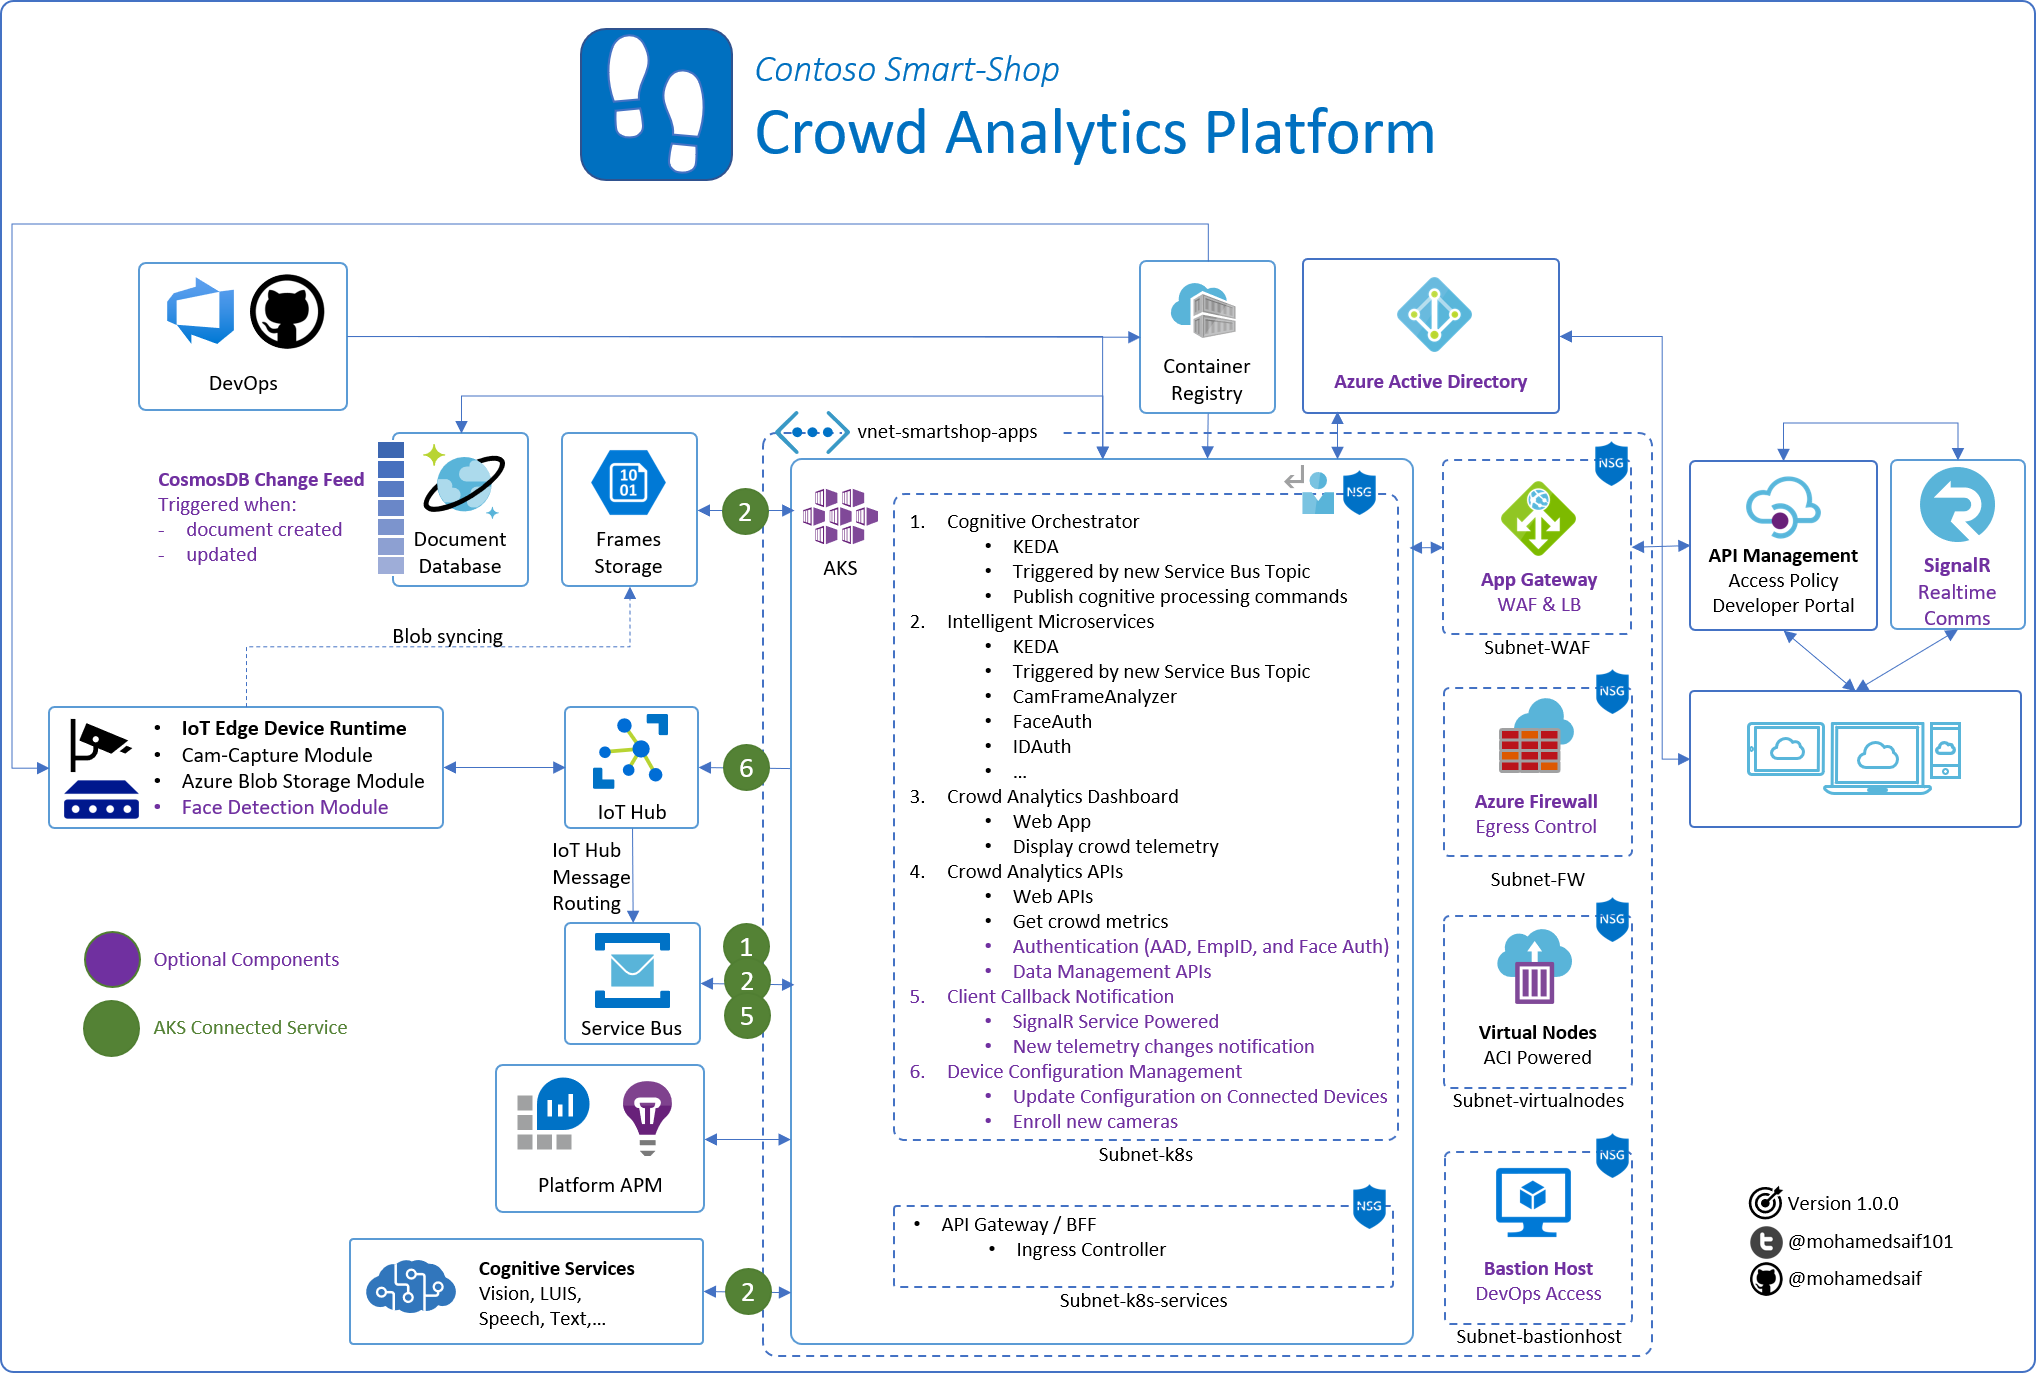
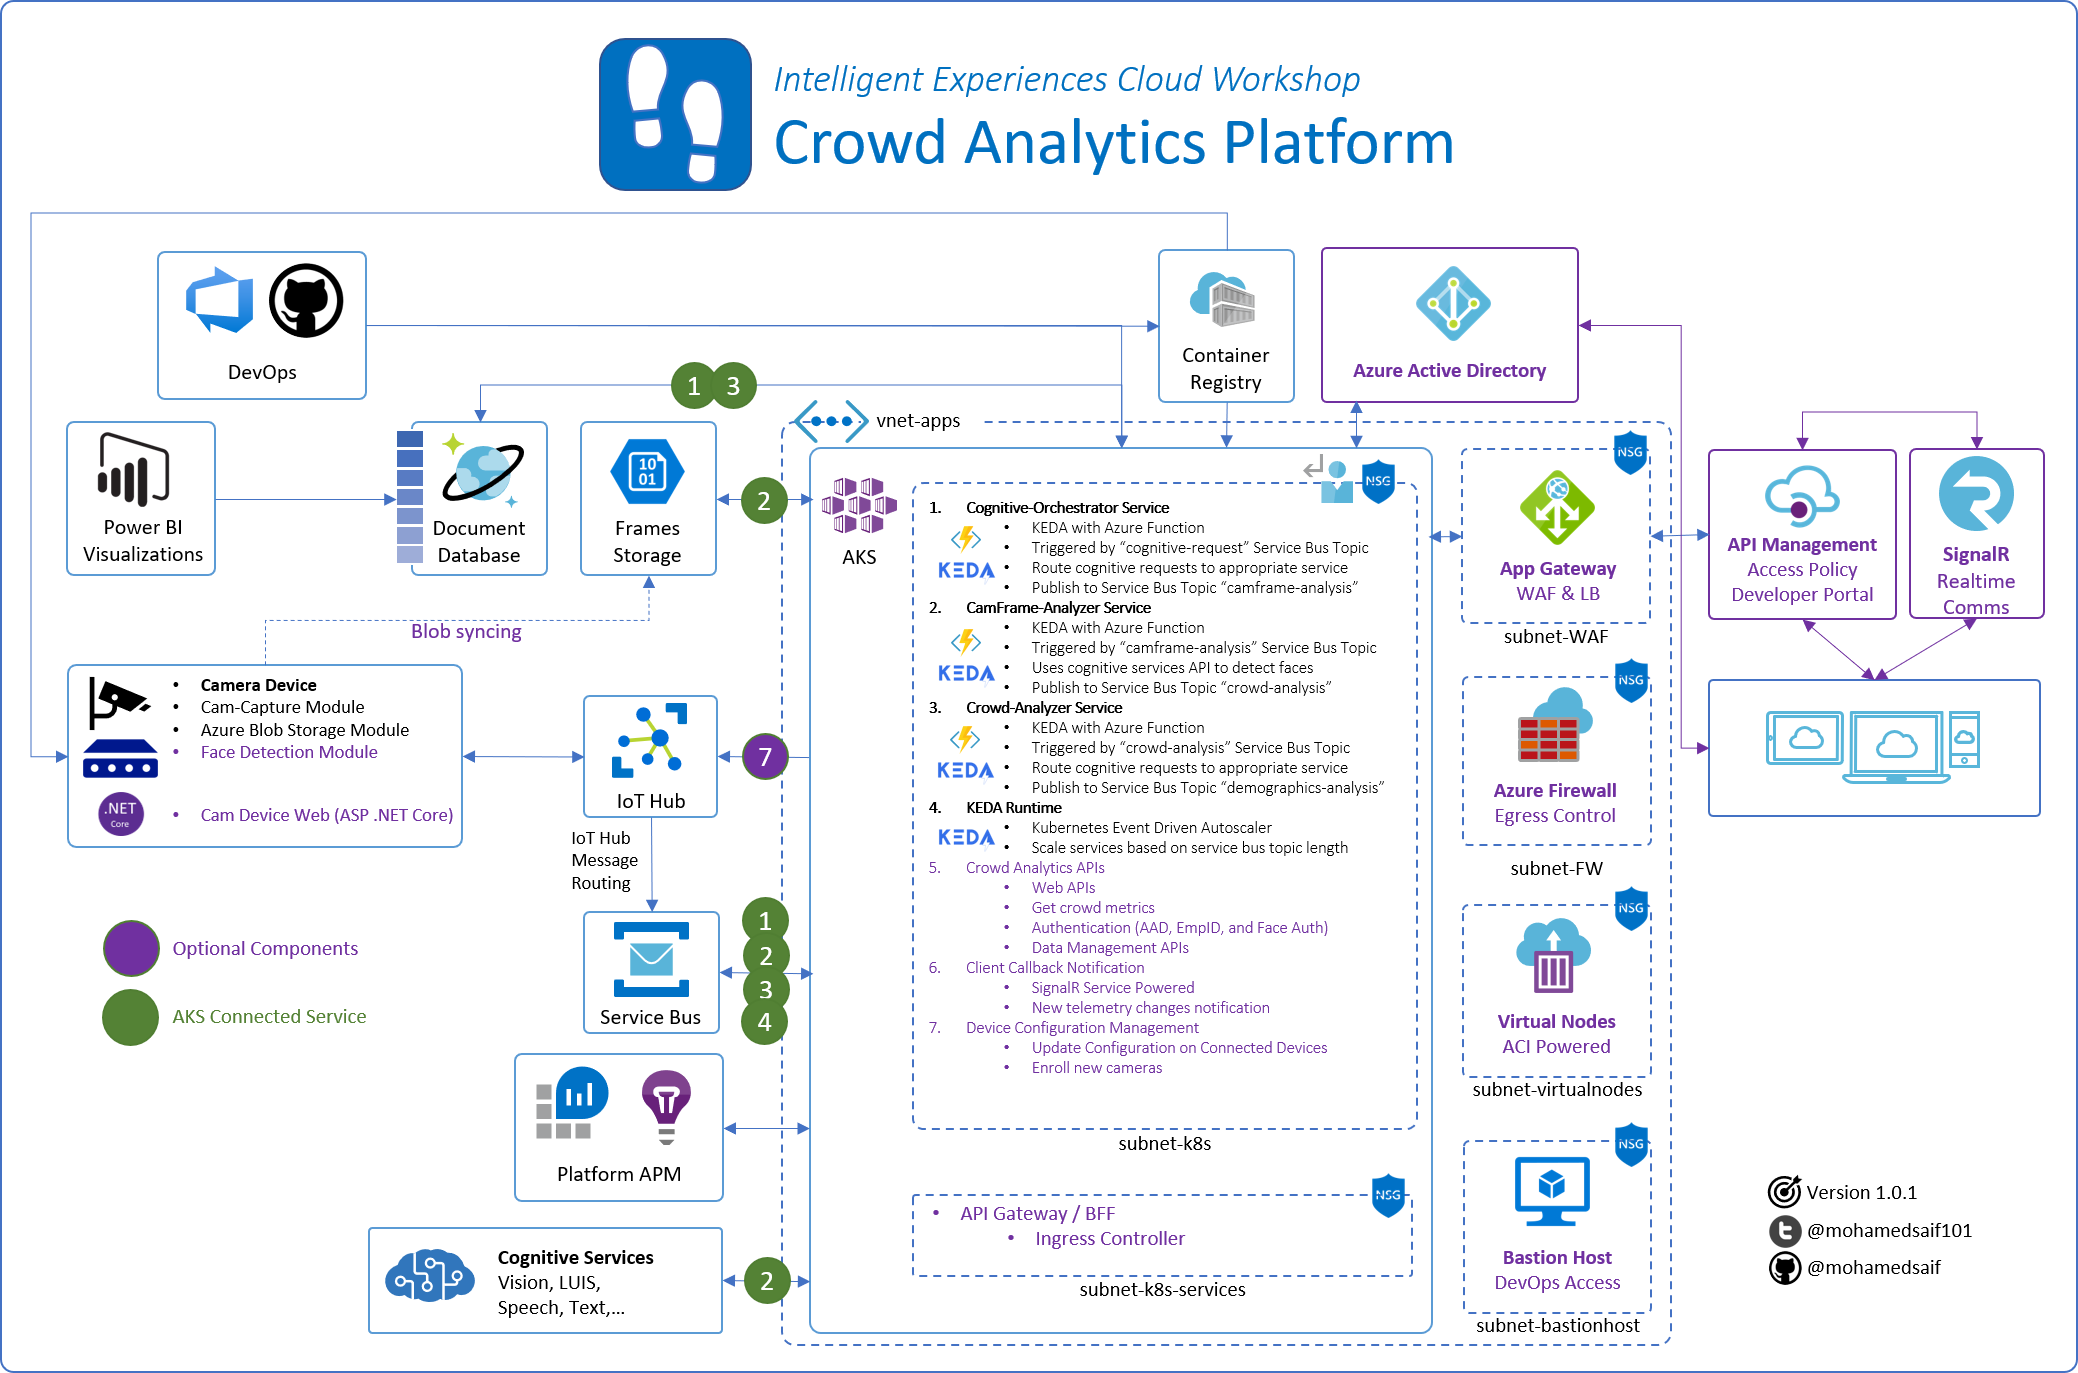
Updated workshop guide

diff --git a/README.md b/README.md
@@ -33,20 +33,24 @@ Crowd analytics scenario can be used in:
 
 Using advanced cloud technologies can provide key business metrics that allows stakeholders to make informative decisions to improve experience and/or performance.
 
-### Azure Technologies
+### Open Source and Azure Technologies
+
+![azure-tech](res/technologies.png)
 
 Azure already provides a sophisticated platform to develop and operate such system.
 
 **Kubernetes** became the defacto cloud native technology to develop and operate sophisticated containerized systems anywhere and with Azure Kubernetes Service takes a lot of the cluster management tasks out of your way to focus more on the solution you want to build.
 
-Key Azure technologies used in the workshop include:
+Key technologies used in the workshop include:
 
 - Azure Kubernetes Service (AKS)
-- Azure Container Registry
+- Azure Container Registry (ACR)
+- Azure Service Bus
 - Azure IoT Hub
 - Azure Cognitive Services
 - Azure Storage
 - Azure DevOps
+- Power BI
 - and many more
 
 I'm really excited to share with you the great journey I took to build such system.
@@ -58,6 +62,8 @@ I'm really excited to share with you the great journey I took to build such syst
     - Azure CLI
     - Other tools
 2. Solution Whiteboarding & Architecture
+    - Walkthrough the system objectives
+    - Review Azure architecture
 3. Creating Azure Prerequisites
     - Resource Group
     - Storage Account
@@ -70,26 +76,100 @@ I'm really excited to share with you the great journey I took to build such syst
     - App Insights for each app
 4. AKS Cluster
     - Essential kubernetes cluster provisioning
-    - OPTIONAL: AKS Secure Deployment
+    - Kubernetes cluster preparations
 5. Creating IoT Hub and IoT Edge Device
     - IoT Hub Provisioning
-    - IoT Edge Device Provisioning
-    - Testing the connectivity
+    - Message Routing to Service Bus
+    - Device Options
+    - Workshop Device Setup
 6. Services Deployment & Testing
-    - DevOps Setup
-    - Services Deployment
+    - Connecting to Azure
+    - Source Code
+    - Continuos Integration
+    - Continuos Delivery
     - Testing
-7. BONUS Tracks
-    - Secure AKS Provisioning
+7. BONUS Tracks (coming soon)
+    - Advanced AKS Provisioning
+        - AKS Preview Features
         - Azure AD Integration
+        - Helm initialization
+        - Node pools (with Windows Pool)
+        - Virtual Nodes
         - Application Gateway Ingress Controller
         - Azure Firewall and Egress Lockdown
     - Realtime Communication
         - Cosmos DB Change Feed
         - SignalR client communication
-    - IoT Edge Advance Deployment
-        - Adding Face Detection Module
-        - Using Raspberry Pi with USB Camera
+    - IoT Edge Deployment
+        - IoT Edge on Kubernetes
+        - Custom Modules
+        - IoT Edge on Raspberry Pi with USB Camera
+
+## Suggested 1-Day Workshop Agenda
+
+<table>
+<th>Topic</th>
+<th>Duration</th>
+<tr>
+<td>Registration and Setup</td>
+<td>15 mins</td>
+<tr>
+<tr>
+<td>Why Intelligent Experiences?</td>
+<td>20 mins</td>
+</tr>
+<tr>
+<td>Intelligent Retail - Crowd Analytics Overview</td>
+<td>25 mins</td>
+</tr>
+<tr>
+<td colspan="2">Break</td>
+</tr>
+<tr>
+<td>Solution White-boarding</td>
+<td>30 mins</td>
+</tr>
+<tr>
+<td>Lab - Azure Services Provisioning</td>
+<td>60 mins</td>
+</tr>
+<tr>
+<td>Lab - AKS Provisioning</td>
+<td>60 mins</td>
+</tr>
+<tr>
+<td colspan="2">Lunch</td>
+</tr>
+<td>Lab - IoT Hub Provisioning</td>
+<td>30 mins</td>
+</tr>
+<tr>
+<td>Lab - DevOps & Services Deployment</td>
+<td>90 mins</td>
+</tr>
+<tr>
+<td colspan="2">Break</td>
+</tr>
+<tr>
+<td>Lab - Dashboard & Data Visualization</td>
+<td>30 mins</td>
+</tr>
+<tr>
+<td>Q and A + Next Steps</td>
+<td>30 mins</td>
+</tr>
+<tr>
+<td colspan="2">Bonus Workshop Material (Take home tasks)</td>
+</tr>
+<tr>
+<td>Bonus 1 - Advanced AKS Provisioning</td>
+<td>-</td>
+</tr>
+<tr>
+<td>Bonus 2 - IoT Edge Development</td>
+<td>-</td>
+</tr>
+</table>
 
 ## About the project
 

diff --git a/guide/04-iot/README.md b/guide/04-iot/README.md
@@ -142,7 +142,7 @@ Gateway patterns in this article only refer to characteristics of downstream dev
 
 ![iot-edge-gateway](assets/edge-as-gateway.png)
 
-## IoT Edge Device.. Workshop Style 🐱👓
+## IoT Device.. Workshop Style 🐱👓
 
 In the workshop, I've wanted to have the IoT Hub Client as close as possible to a production development. I've decided to put 2 components to work:
 
